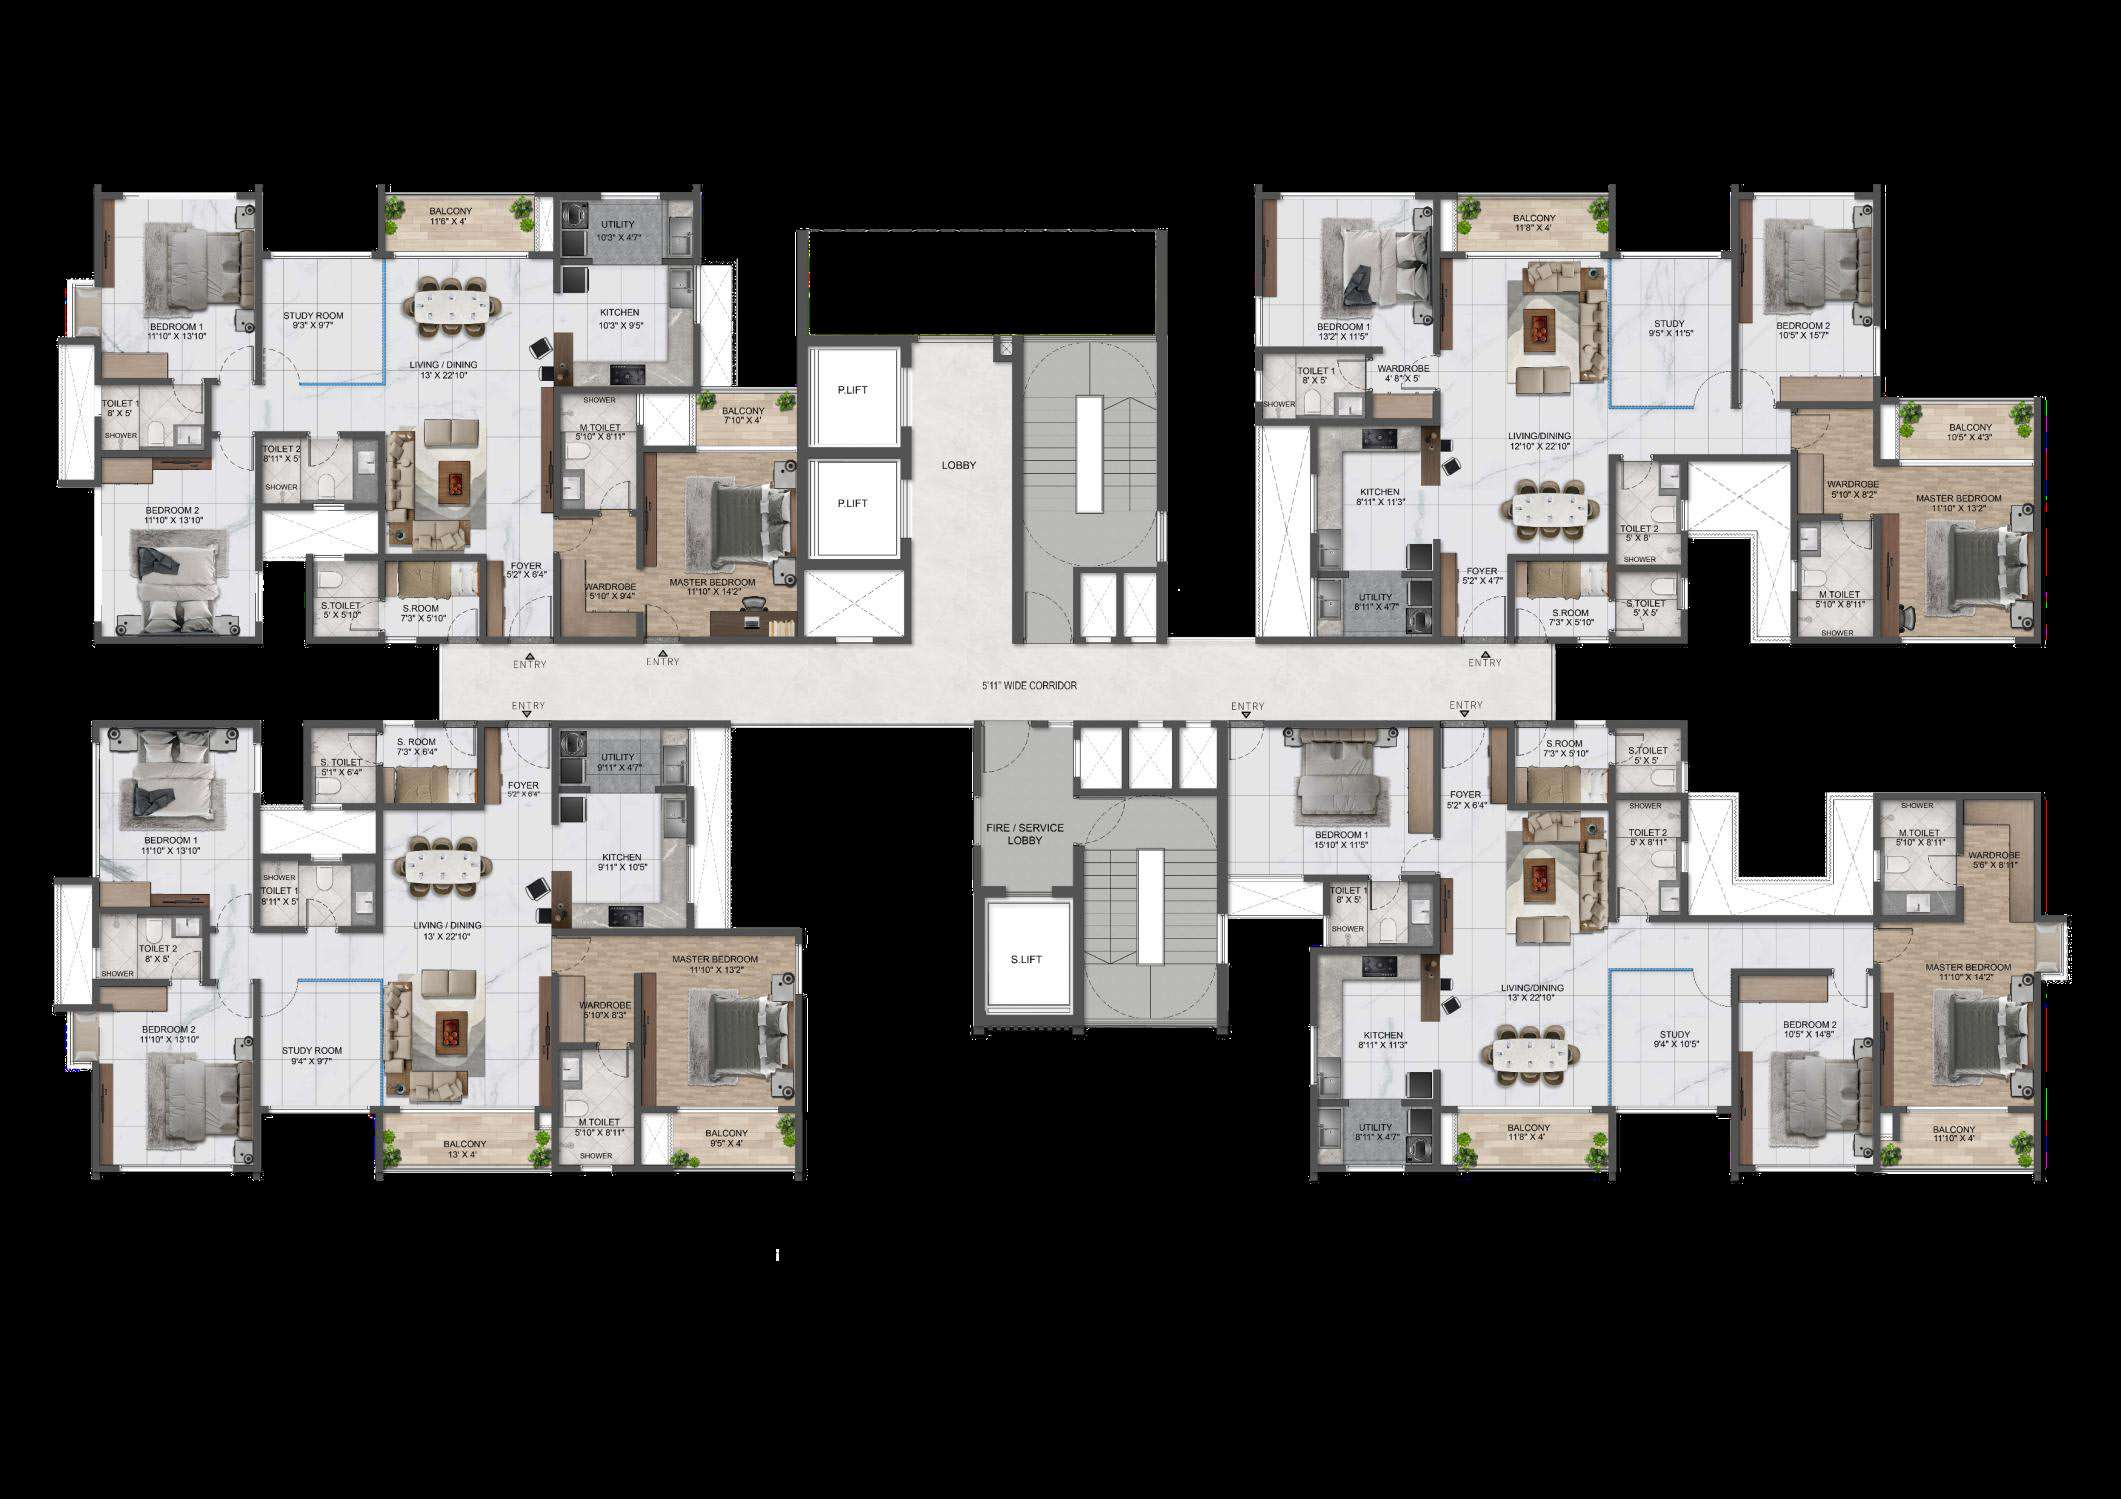
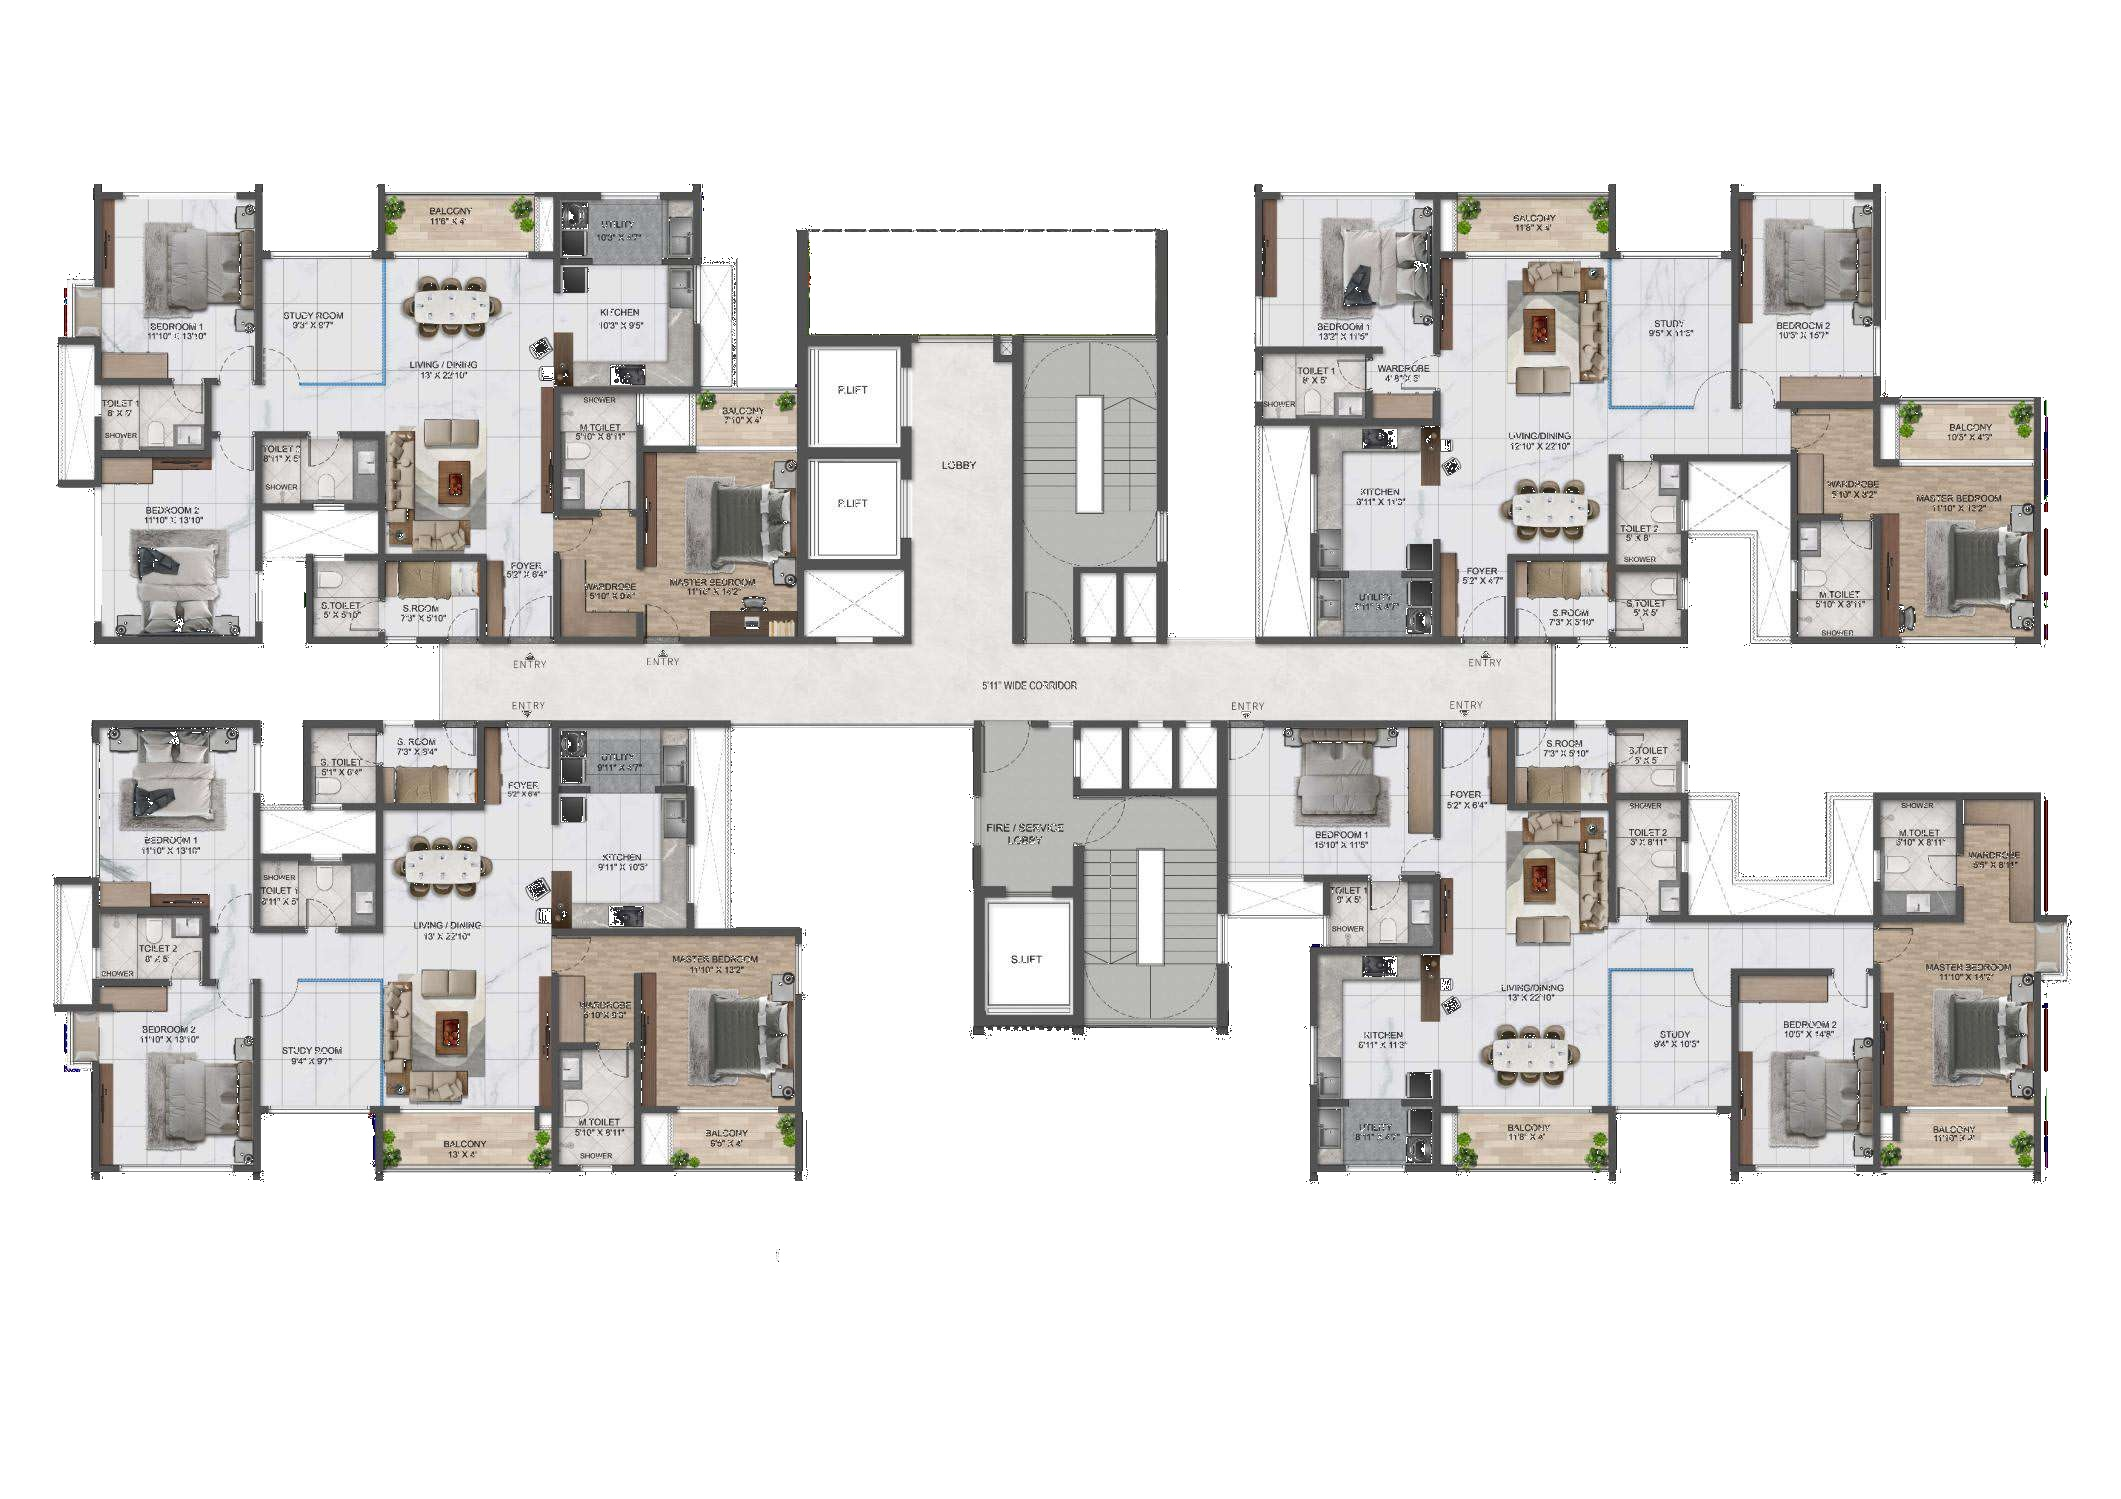
fix(property): fix floor plan tab toggling, convert dark background to crisp white, and hide 4BHK until clicked

diff --git a/style-guide/assets/js/property.js b/style-guide/assets/js/property.js
@@ -196,17 +196,18 @@ document.addEventListener('DOMContentLoaded', function() {
   var fpGrid4bhk = document.getElementById('fp-v2-4bhk');
 
   fpTabsV2.forEach(function(tab) {
-    tab.addEventListener('click', function() {
+    tab.addEventListener('click', function(e) {
+      if (e) e.preventDefault();
       var target = this.getAttribute('data-tab');
       fpTabsV2.forEach(function(t) { t.classList.remove('active'); });
       this.classList.add('active');
 
       if (target === '3bhk') {
-        if (fpGrid3bhk) fpGrid3bhk.style.display = 'grid';
-        if (fpGrid4bhk) fpGrid4bhk.style.display = 'none';
+        if (fpGrid3bhk) fpGrid3bhk.style.setProperty('display', 'grid', 'important');
+        if (fpGrid4bhk) fpGrid4bhk.style.setProperty('display', 'none', 'important');
       } else if (target === '4bhk') {
-        if (fpGrid3bhk) fpGrid3bhk.style.display = 'none';
-        if (fpGrid4bhk) fpGrid4bhk.style.display = 'grid';
+        if (fpGrid3bhk) fpGrid3bhk.style.setProperty('display', 'none', 'important');
+        if (fpGrid4bhk) fpGrid4bhk.style.setProperty('display', 'grid', 'important');
       }
     });
   });

diff --git a/property/sumadhura-solace-whitefield/index.html b/property/sumadhura-solace-whitefield/index.html
@@ -596,7 +596,7 @@
                 </div>
 
                 <!-- 4 BHK Grid Content (Hidden by Default) -->
-                <div id="fp-v2-4bhk" class="prop-fp-grid-v2" style="display:none;">
+                <div id="fp-v2-4bhk" class="prop-fp-grid-v2" style="display:none !important;">
                     <div class="prop-fp-img-card-v2">
                         <img src="../../style-guide/assets/sumadhura_solace_4bhk_floorplan.jpg" alt="Sumadhura Solace 4 BHK Floor Plan Layout">
                     </div>

diff --git a/style-guide/assets/css/property.css b/style-guide/assets/css/property.css
@@ -2001,3 +2001,11 @@ body.property-page main {
     grid-template-columns: 1fr !important;
   }
 }
+
+/* Strict Floor Plan Tab Display Rules */
+#fp-v2-3bhk {
+  display: grid !important;
+}
+#fp-v2-4bhk {
+  display: none !important;
+}
